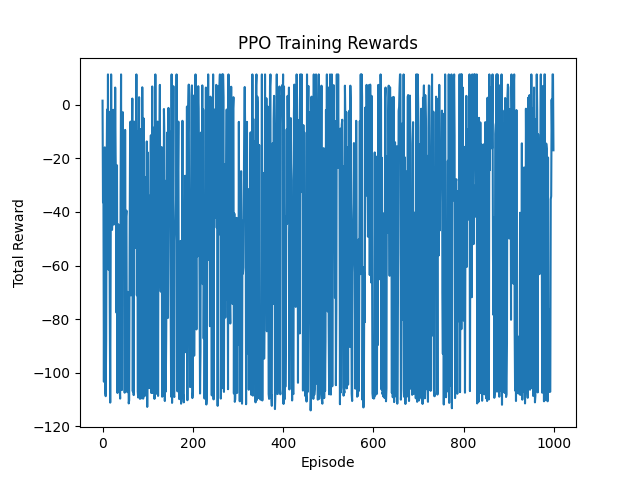
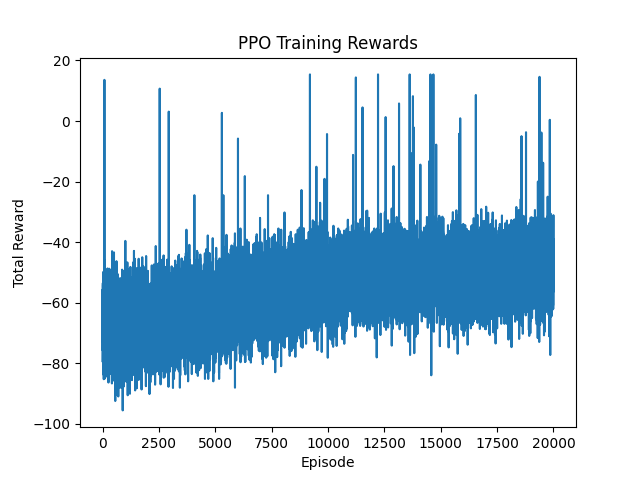
q-learning agent

diff --git a/qlearning_agent.py b/qlearning_agent.py
@@ -1,0 +1,119 @@
+import os
+import sys
+import numpy as np
+import random
+from collections import defaultdict, deque
+import matplotlib.pyplot as plt
+
+# Ensure the `env` folder is in Python path to import Minesweeper environment
+sys.path.insert(0, os.path.join(os.path.dirname(__file__), 'env'))
+from minesweeper import Minesweeper
+
+# Q-learning configuration
+config = {
+    'num_episodes': 20000,
+    'eval_every': 100,
+    'eval_episodes': 200,
+    'alpha': 0.1,          # learning rate
+    'gamma': 0.99,         # discount factor
+    'epsilon_start': 1.0,  # initial exploration
+    'epsilon_min': 0.1,    # minimum exploration
+    'epsilon_decay': 0.995 # per-episode decay
+}
+
+# Environment dimensions & settings
+rows, cols, mines = 4, 4, 3
+first_click_safe = True
+
+def state_to_key(state_array):
+    # convert flattened numpy array to immutable tuple for dict key
+    return tuple(state_array.tolist())
+
+if __name__ == "__main__":
+    env = Minesweeper(rows, cols, mines, first_click_safe=first_click_safe, visualize=False)
+    Q = defaultdict(float)  # Q[(state_key, action)] = value
+
+    epsilon = config['epsilon_start']
+    win_rates = []
+    total_wins = 0
+
+    for ep in range(1, config['num_episodes'] + 1):
+        state = env.reset().flatten()
+        state_key = state_to_key(state)
+        done = False
+
+        while not done:
+            # epsilon-greedy over valid unopened positions
+            valid = np.where(env.playerfield.flatten() == env.Tile.UNOPENED)[0]
+            if random.random() < epsilon:
+                action = random.choice(valid)
+            else:
+                q_vals = [Q[(state_key, a)] for a in valid]
+                action = valid[int(np.argmax(q_vals))]
+
+            next_field, reward, _, info = env.step(action)
+            next_state = next_field.flatten()
+            next_key = state_to_key(next_state)
+
+            # determine max Q for next state
+            next_valid = np.where(env.playerfield.flatten() == env.Tile.UNOPENED)[0]
+            if len(next_valid) > 0 and not info.get('exploded', False):
+                next_max = max(Q[(next_key, a)] for a in next_valid)
+            else:
+                next_max = 0.0
+
+            # Q-learning update
+            old_val = Q[(state_key, action)]
+            Q[(state_key, action)] = old_val + config['alpha'] * (
+                reward + config['gamma'] * next_max - old_val
+            )
+
+            state_key = next_key
+
+            if info.get('exploded', False):
+                done = True
+            elif info.get('win', False):
+                done = True
+                total_wins += 1
+
+        # decay exploration rate
+        epsilon = max(config['epsilon_min'], epsilon * config['epsilon_decay'])
+
+        # evaluate at intervals
+        if ep % config['eval_every'] == 0:
+            wins = 0
+            for _ in range(config['eval_episodes']):
+                s = env.reset().flatten()
+                sk = state_to_key(s)
+                d = False
+                while not d:
+                    valid = np.where(env.playerfield.flatten() == env.Tile.UNOPENED)[0]
+                    # greedy action
+                    q_vals = [Q[(sk, a)] for a in valid]
+                    a = valid[int(np.argmax(q_vals))]
+                    sf, _, _, inf = env.step(a)
+                    sk = state_to_key(sf.flatten())
+                    if inf.get('exploded', False):
+                        d = True
+                    elif inf.get('win', False):
+                        d = True
+                        wins += 1
+            win_rate = wins / config['eval_episodes']
+            win_rates.append((ep, win_rate))
+            print(f"Episode {ep} | Eval Win rate: {win_rate:.2f} | Epsilon: {epsilon:.2f}")
+
+    # plot evaluation win rates
+    eps, rates = zip(*win_rates)
+    plt.figure()
+    plt.plot(eps, rates, alpha=0.4, label='Raw Win Rate')
+    window = 5
+    if len(rates) >= window:
+        sm = np.convolve(rates, np.ones(window)/window, mode='valid')
+        eps_sm = eps[window-1:]
+        plt.plot(eps_sm, sm, linewidth=2, label=f'{window}-Eval MA')
+    plt.xlabel('Episode')
+    plt.ylabel('Win Rate')
+    plt.title('Q-Learning Eval Win Rate')
+    plt.legend()
+    plt.savefig('qlearning_win_rate.png')
+    print("Training complete. Win-rate plot saved to qlearning_win_rate.png.")

diff --git a/agent.py b/agent.py
@@ -14,7 +14,7 @@ from minesweeper import Minesweeper
 
 # PPO configuration
 config = {
-    'num_episodes': 10000,
+    'num_episodes': 20000,
     'eval_every': 50,
     'eval_episodes': 100,
     'max_resets_per_episode': 25,
@@ -29,7 +29,7 @@ config = {
 }
 
 # Environment dimensions & settings
-rows, cols, mines = 4, 4, 3
+rows, cols, mines = 8, 8, 10
 first_click_safe = True
 
 def compute_gae(rewards, values, next_values, dones, gamma, lam):
